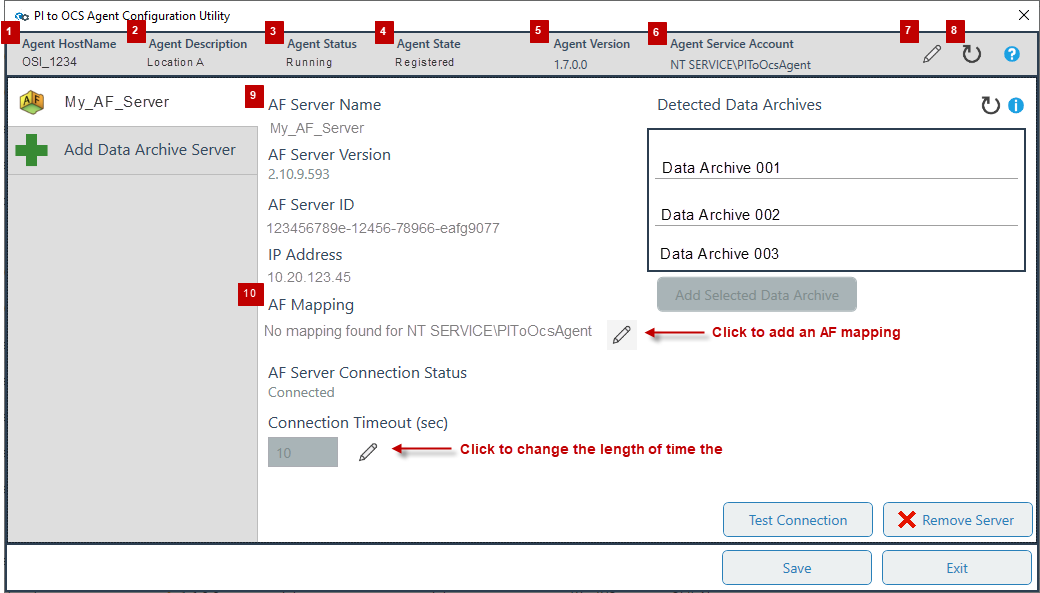
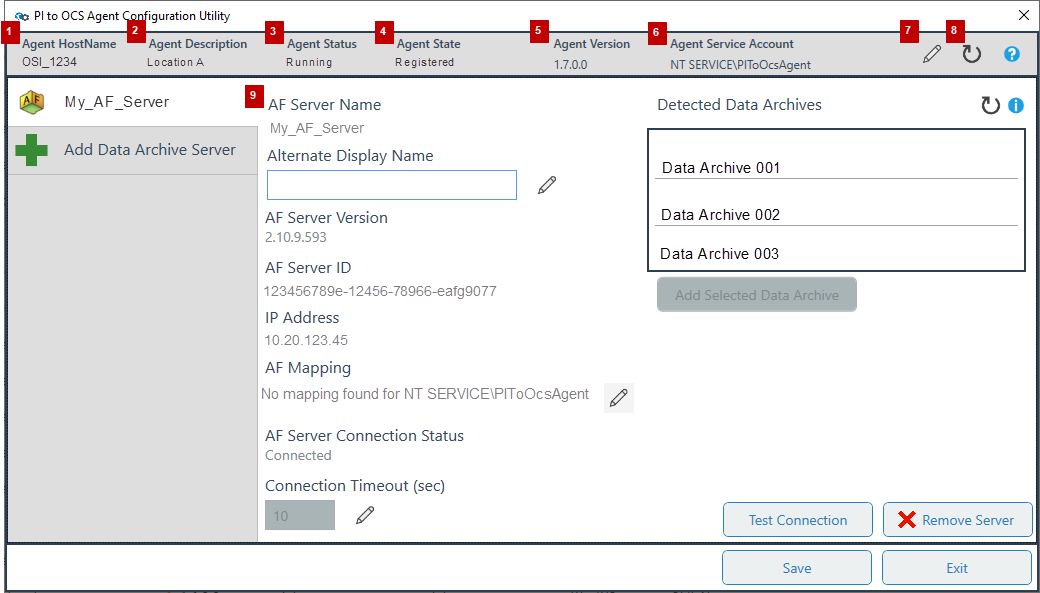
Updated image
Updated image to show new Alternate Display Name field.

diff --git a/content/add-organize-data/collect-data/connectors/pi-to-ocs/set-up-pi-to-ocs/config-utility.md b/content/add-organize-data/collect-data/connectors/pi-to-ocs/set-up-pi-to-ocs/config-utility.md
@@ -6,7 +6,7 @@ uid: pi-to-ocs-utility
 
 Use the PI to OCS Agent Configuration Utility to set up and configure AF server and Data Archive data sources before creating a data transfer. After installing or upgrading a PI to OCS Agent, use the utility to select a source AF server or Data Archive, view connection details, create AF and PI mappings, set data privacy settings, and register the agent. 
 
-The following image shows the important elements of the utility and table below provides descriptions of the elements.<!--AF 11/12/21 why are there two comments on the image in addition to the numbered callouts? shouldn't they all be numbered callouts?-->  
+The following image and table provides descriptions of the fields in the utility.<!--AF 11/12/21 why are there two comments on the image in addition to the numbered callouts? shouldn't they all be numbered callouts?-->  
 
    ![AF server details](../../images/utility-callouts.png)
 
@@ -15,13 +15,15 @@ The following image shows the important elements of the utility and table below 
 | 1  | Name of the host computer where the agent is installed.       |
 | 2  | An optional name for an agent.                                |
 | 3  | Displays the PI to OCS Agent's status.                        |
-| 4  | Provides details about the agent's registration state.        |
-| 5  | Currently running PI to OCS Agent version.                    |
+| 4  | Displays the agent's registration state.        |
+| 5  | The installed PI to OCS Agent version.                    |
 | 6  | Type of agent service account.                               |
 | 7  | Set data privacy options and assign an agent description.    |
 | 8  | View information about the server connection and its configuration. |
 | 9  | Source AF server name.                                        |
-| 10 | Type of AF mapping configured for the service account. Select the pencil icon next to this field to assign an AF mapping to an AF identity. |
+| 10 | Optional, alternate name of AF server. Select the pencil icon to the right of this field to assign an alternate name for data privacy purposes. | 
+| 11 | Type of AF mapping configured for the service account. Select the pencil icon next to this field to assign an AF mapping to an AF identity. |
+| 12 | Amount of time before connection times out. Select the pencil icon next to enter a new time in seconds. |
 
    **Note:** After a PI Data Archive server is added, similar information in the table above is displayed in the utility.
 
